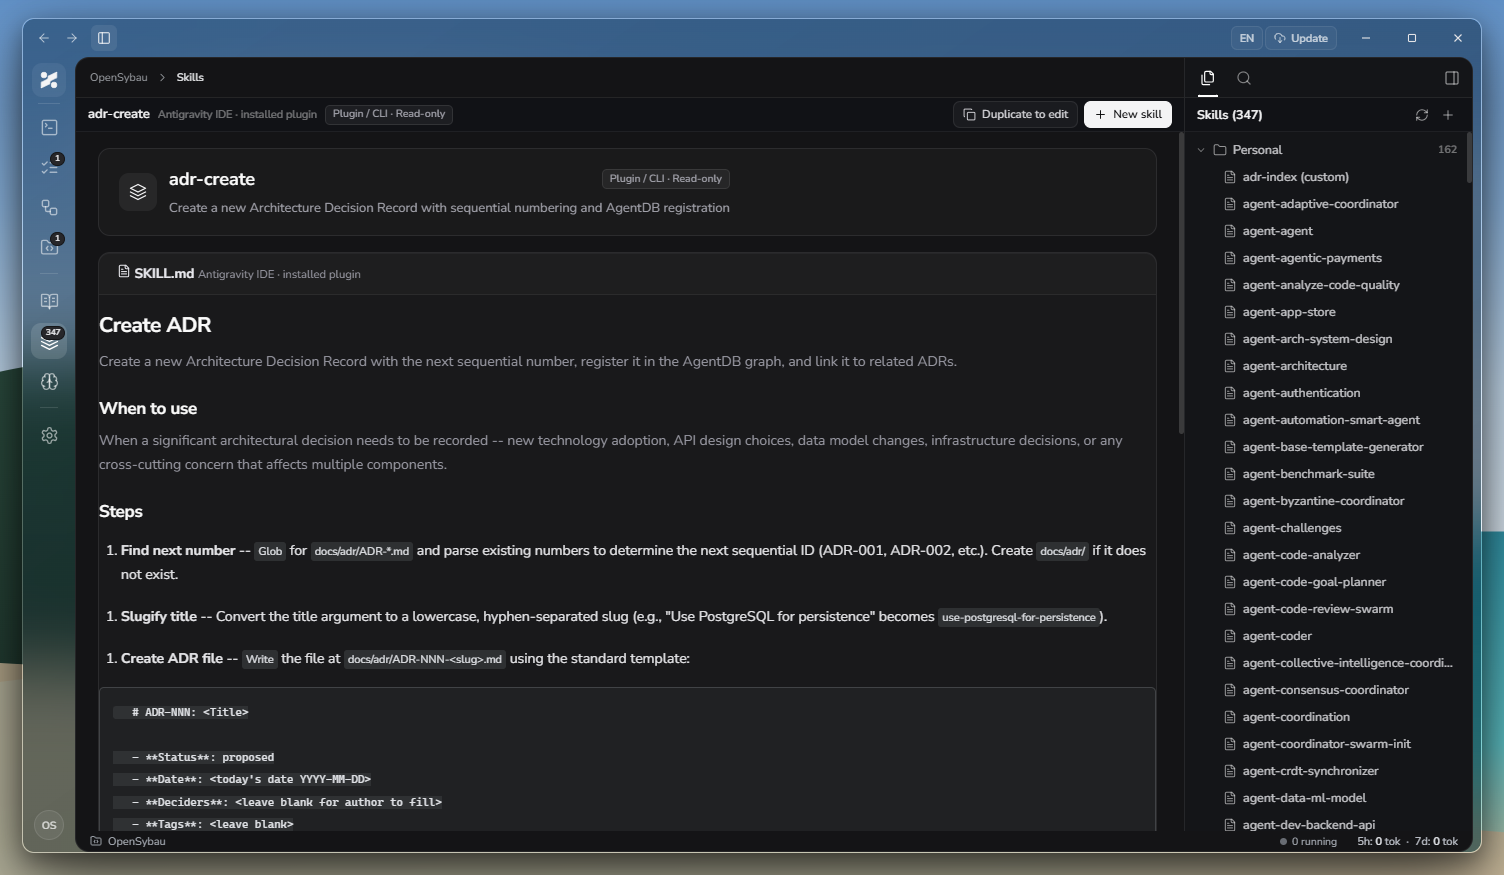
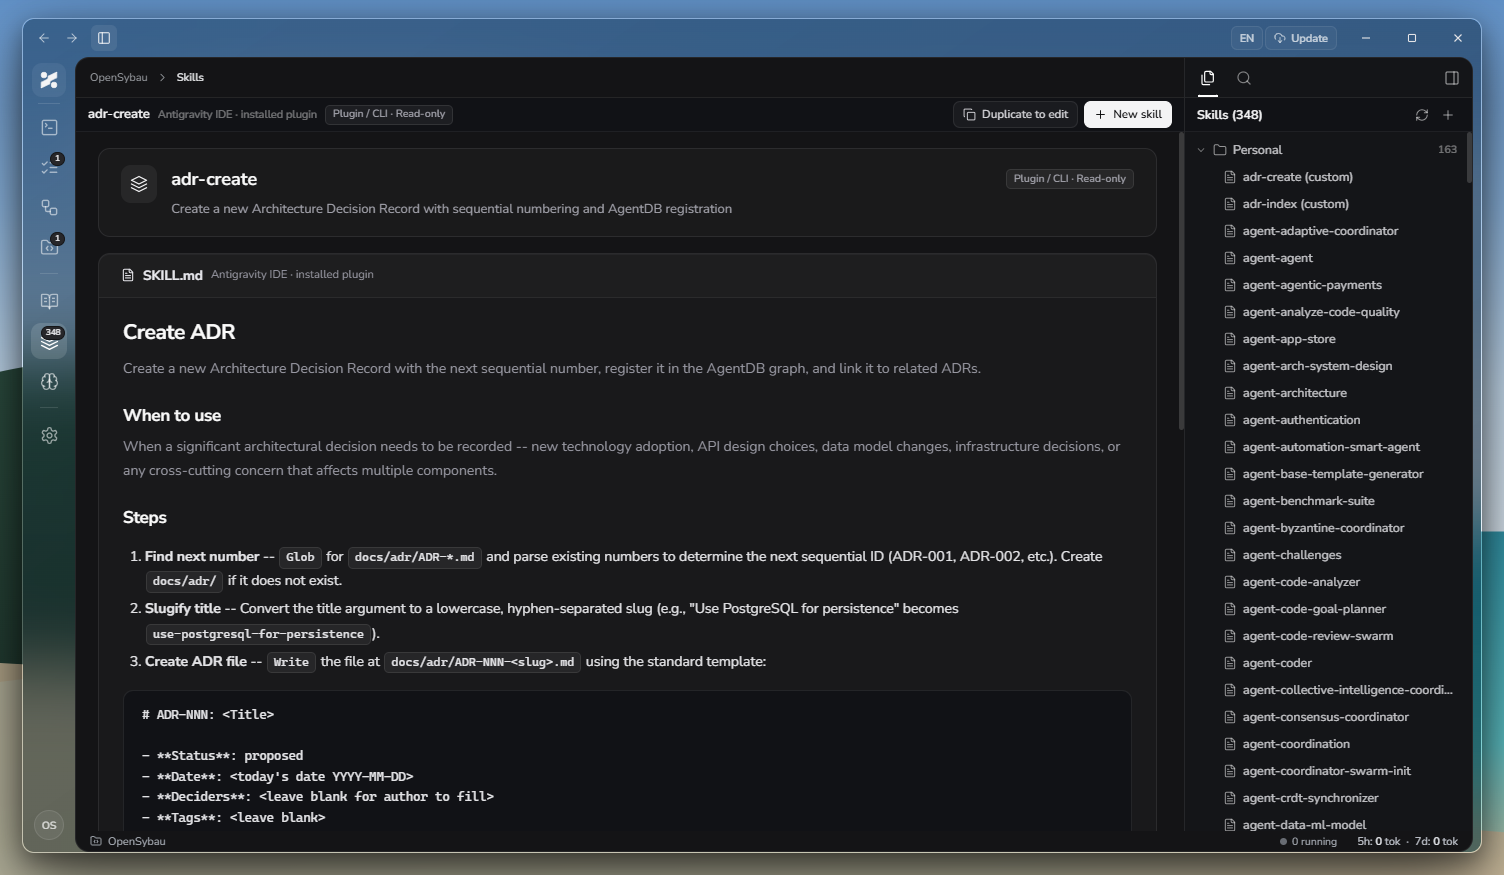
fix(ui): fix skill detail full-width header, card padding, and code block highlight strips

diff --git a/src/styles/preset-theme.css b/src/styles/preset-theme.css
@@ -6854,24 +6854,52 @@ body .orca-right-dock .icon-button:hover:not(:disabled) {
   gap: 10px;
 }
 
+.wb-page-content .page-head > div:first-child {
+  flex: 1 1 auto !important;
+  min-width: 0 !important;
+}
+
+.wb-page-content .page-head p,
+.wb-page-content .settings-card > header > div:first-child,
+.wb-page-content .settings-card > header p {
+  max-width: none !important;
+}
+
 .wb-page-content .skill-stage-hero {
-  padding: 16px 20px !important;
+  width: 100% !important;
+  padding: 16px 22px !important;
   margin-bottom: 4px !important;
   border-radius: 12px !important;
   border: 1px solid rgba(255, 255, 255, 0.08) !important;
   background: rgba(255, 255, 255, 0.025) !important;
+  box-sizing: border-box !important;
+}
+
+.wb-page-content .skill-stage-hero .minimal-stage-title {
+  flex: 1 1 auto !important;
+  width: 100% !important;
+  min-width: 0 !important;
+  align-items: flex-start !important;
+  gap: 14px !important;
+}
+
+.wb-page-content .skill-stage-hero .skill-hero-copy {
+  flex: 1 1 auto !important;
+  width: 100% !important;
+  min-width: 0 !important;
 }
 
 .wb-page-content .skill-hero-title-row {
-  display: flex;
-  align-items: center;
-  justify-content: space-between;
-  gap: 10px;
+  width: 100% !important;
+  display: flex !important;
+  align-items: center !important;
+  justify-content: space-between !important;
+  gap: 12px !important;
   flex-wrap: wrap;
 }
 
 .wb-page-content .skill-hero-title-row h1 {
-  margin: 0;
+  margin: 0 !important;
   font-size: 18px !important;
   font-weight: 650 !important;
   color: #fafafa !important;
@@ -6879,31 +6907,99 @@ body .orca-right-dock .icon-button:hover:not(:disabled) {
 
 .wb-page-content .skill-stage-hero p {
   margin: 6px 0 0 !important;
+  max-width: none !important;
   font-size: 13px !important;
-  line-height: 1.5 !important;
+  line-height: 1.55 !important;
   color: #a1a1aa !important;
 }
 
 .wb-page-content .skill-doc-card {
+  width: 100% !important;
   padding: 0 !important;
   overflow: hidden !important;
   border-radius: 12px !important;
   border: 1px solid rgba(255, 255, 255, 0.08) !important;
   background: rgba(255, 255, 255, 0.02) !important;
+  box-sizing: border-box !important;
 }
 
-.wb-page-content .skill-doc-card-head {
-  display: flex;
-  align-items: center;
-  justify-content: space-between;
-  gap: 10px;
-  padding: 10px 18px !important;
+.wb-page-content .skill-doc-card > header.skill-doc-card-head {
+  width: 100% !important;
+  margin: 0 !important;
+  display: flex !important;
+  align-items: center !important;
+  justify-content: space-between !important;
+  gap: 10px !important;
+  padding: 11px 22px !important;
   border-bottom: 1px solid rgba(255, 255, 255, 0.06) !important;
   background: rgba(255, 255, 255, 0.02) !important;
+  box-sizing: border-box !important;
 }
 
-.wb-page-content .skill-doc-card .kb-doc-body {
-  padding: 18px 22px 24px !important;
+.wb-page-content .skill-doc-card-title {
+  display: inline-flex !important;
+  align-items: center !important;
+  gap: 8px !important;
+  min-width: 0 !important;
 }
 
+.wb-page-content .skill-doc-card .skill-doc-body {
+  padding: 20px 24px 26px !important;
+}
 
+/* 9. Clean Code Blocks (<pre><code>) & Refined Inline Code Badges */
+.wb-page-content .markdown-preview pre,
+.wb-page-content .kb-markdown-doc pre,
+.chat-message-content pre {
+  margin: 12px 0 16px !important;
+  padding: 14px 18px !important;
+  border-radius: 10px !important;
+  border: 1px solid rgba(255, 255, 255, 0.08) !important;
+  background: #111216 !important;
+  color: #e4e4e7 !important;
+  overflow-x: auto !important;
+  font-family: var(--wb-font-mono) !important;
+  font-size: 12.5px !important;
+  line-height: 1.65 !important;
+  font-variant-ligatures: none !important;
+  font-feature-settings: "liga" 0, "calt" 0 !important;
+}
+
+.wb-page-content pre > code,
+.wb-page-content .markdown-preview pre > code,
+.wb-page-content .kb-markdown-doc pre > code,
+.chat-message-content pre > code,
+pre > code {
+  display: block !important;
+  padding: 0 !important;
+  margin: 0 !important;
+  border: 0 !important;
+  border-radius: 0 !important;
+  background: transparent !important;
+  box-shadow: none !important;
+  color: inherit !important;
+  font-family: var(--wb-font-mono) !important;
+  font-size: 12.5px !important;
+  line-height: 1.65 !important;
+  white-space: pre !important;
+  font-variant-ligatures: none !important;
+  font-feature-settings: "liga" 0, "calt" 0 !important;
+}
+
+.wb-page-content .markdown-preview :not(pre) > code,
+.wb-page-content .kb-markdown-doc :not(pre) > code,
+.chat-message-content :not(pre) > code {
+  display: inline-block !important;
+  padding: 1px 6px !important;
+  margin: 0 1px !important;
+  border-radius: 5px !important;
+  border: 1px solid rgba(255, 255, 255, 0.085) !important;
+  background: rgba(255, 255, 255, 0.055) !important;
+  color: #e4e4e7 !important;
+  font-family: var(--wb-font-mono) !important;
+  font-size: 12px !important;
+  line-height: 1.45 !important;
+  vertical-align: baseline !important;
+  font-variant-ligatures: none !important;
+  font-feature-settings: "liga" 0, "calt" 0 !important;
+}

diff --git a/src/features/workbench/controller.js b/src/features/workbench/controller.js
@@ -442,16 +442,30 @@ function isMarkdownTableDelimiter(line) {
 function renderMarkdown(source) {
   const lines = String(source || "").split(/\r?\n/);
   const html = [];
-  let paragraph = [], listType = "", codeLines = [], inCode = false;
+  let paragraph = [], listType = "", codeLines = [], inCode = false, codeIndent = 0;
   const inline = (text) => esc(text).replace(/`([^`]+)`/g, "<code>$1</code>").replace(/\*\*(.+?)\*\*/g, "<strong>$1</strong>").replace(/\*(.+?)\*/g, "<em>$1</em>").replace(/\[([^\]]+)\]\(((?:https?:\/\/|obsidian:\/\/|#)[^ ")<>']+)\)/g, '<a href="$2" target="_blank" rel="noreferrer">$1</a>');
   const flushParagraph = () => { if (paragraph.length) { html.push(`<p>${paragraph.map(inline).join("<br>")}</p>`); paragraph = []; } };
   const closeList = () => { if (listType) { html.push(`</${listType}>`); listType = ""; } };
   let headingIdx = 0;
   for (let i = 0; i < lines.length; i++) {
     const line = lines[i];
-    if (/^\s*```/.test(line)) { flushParagraph(); closeList(); if (inCode) { html.push(`<pre><code>${esc(codeLines.join("\n"))}</code></pre>`); codeLines = []; inCode = false; } else inCode = true; continue; }
-    if (inCode) { codeLines.push(line); continue; }
-    if (!line.trim()) { flushParagraph(); closeList(); continue; }
+    const fenceMatch = line.match(/^(\s*)```/);
+    if (fenceMatch) {
+      flushParagraph(); closeList();
+      if (inCode) {
+        html.push(`<pre><code>${esc(codeLines.join("\n"))}</code></pre>`);
+        codeLines = []; inCode = false; codeIndent = 0;
+      } else {
+        inCode = true;
+        codeIndent = fenceMatch[1].length;
+      }
+      continue;
+    }
+    if (inCode) {
+      codeLines.push(codeIndent > 0 ? line.replace(new RegExp(`^ {0,${codeIndent}}`), "") : line);
+      continue;
+    }
+    if (!line.trim()) { flushParagraph(); continue; }
     if (/^\s*(?:-{3,}|\*{3,}|_{3,})\s*$/.test(line)) { flushParagraph(); closeList(); html.push("<hr>"); continue; }
     if (line.includes("|") && i + 1 < lines.length && isMarkdownTableDelimiter(lines[i + 1])) {
       flushParagraph(); closeList();
@@ -473,9 +487,19 @@ function renderMarkdown(source) {
     }
     const heading = line.match(/^(#{1,6})\s+(.+)$/);
     const bullet = line.match(/^\s*[-*+]\s+(.+)$/);
-    const ordered = line.match(/^\s*\d+[.)]\s+(.+)$/);
+    const ordered = line.match(/^\s*(\d+)[.)]\s+(.+)$/);
     if (heading) { flushParagraph(); closeList(); const level = Math.min(heading[1].length, 4); html.push(`<h${level} data-kb-heading="${headingIdx++}">${inline(heading[2])}</h${level}>`); continue; }
-    if (bullet || ordered) { flushParagraph(); const nextType = bullet ? "ul" : "ol"; if (listType !== nextType) { closeList(); listType = nextType; html.push(`<${listType}>`); } html.push(`<li>${inline((bullet || ordered)[1])}</li>`); continue; }
+    if (bullet || ordered) {
+      flushParagraph();
+      const nextType = bullet ? "ul" : "ol";
+      if (listType !== nextType) { closeList(); listType = nextType; html.push(`<${listType}>`); }
+      if (ordered) {
+        html.push(`<li value="${Number(ordered[1])}">${inline(ordered[2])}</li>`);
+      } else {
+        html.push(`<li>${inline(bullet[1])}</li>`);
+      }
+      continue;
+    }
     const quote = line.match(/^>\s?(.*)$/); if (quote) { flushParagraph(); closeList(); html.push(`<blockquote>${inline(quote[1])}</blockquote>`); continue; }
     closeList(); paragraph.push(line);
   }
@@ -1764,7 +1788,7 @@ function skillPage() {
         <section class="minimal-stage-hero skill-stage-hero">
           <div class="minimal-stage-title">
             <span class="minimal-stage-icon">${icon("notebook-tabs", 18)}</span>
-            <div>
+            <div class="skill-hero-copy">
               <div class="skill-hero-title-row">
                 <h1>${esc(activeSkill.name)}</h1>
                 <span class="kb-tag-chip is-inline-badge">${activeSkill.editable ? "Cá nhân · Có thể sửa" : "Plugin / CLI · Chỉ đọc"}</span>
@@ -1781,9 +1805,11 @@ function skillPage() {
               ${skillSourceLabel ? `<small>${esc(skillSourceLabel)}</small>` : ""}
             </div>
           </header>
-          ${rawContent
-            ? `<article class="markdown-preview kb-markdown-doc">${renderMarkdown(strippedBody || rawContent)}</article>`
-            : `<p class="neural-muted">Đang tải nội dung SKILL.md…</p>`}
+          <div class="skill-doc-body">
+            ${rawContent
+              ? `<article class="markdown-preview kb-markdown-doc">${renderMarkdown(strippedBody || rawContent)}</article>`
+              : `<p class="neural-muted">Đang tải nội dung SKILL.md…</p>`}
+          </div>
         </section>
       </div>
     </div>`;
